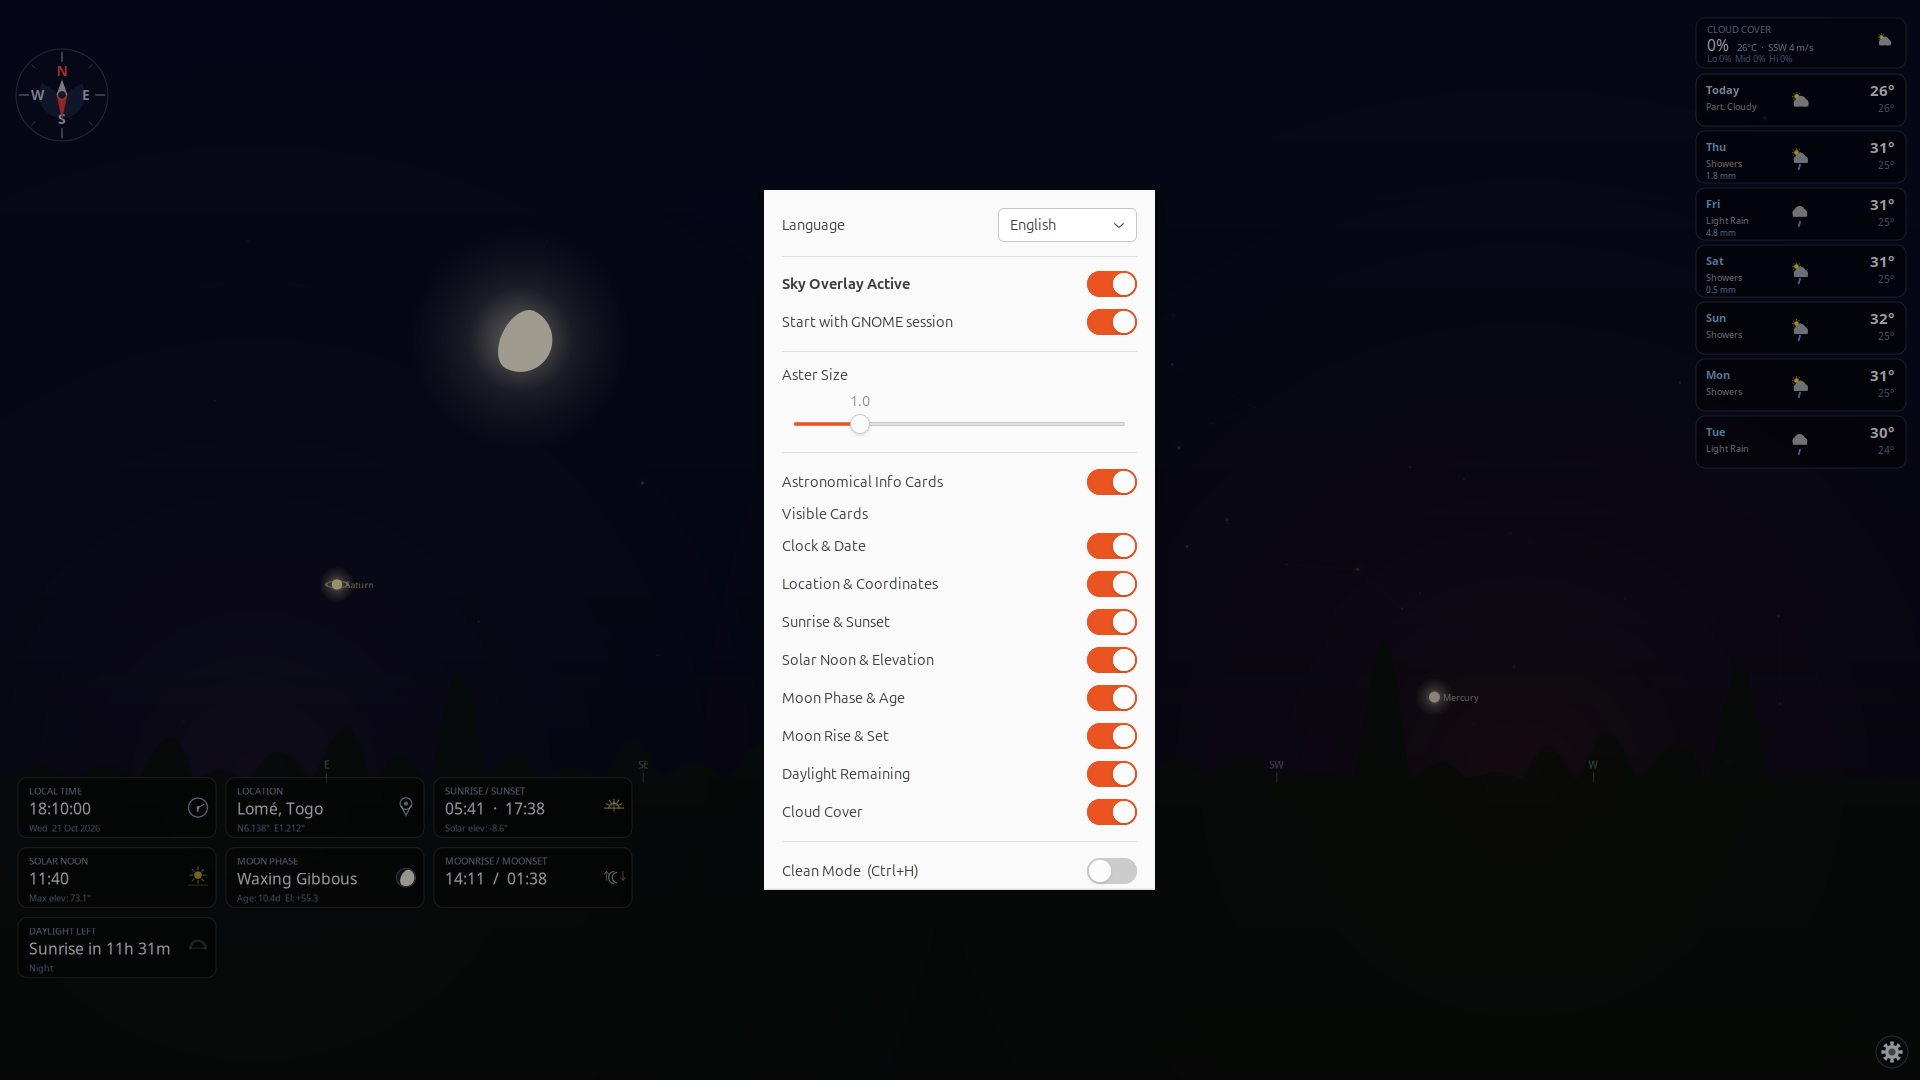
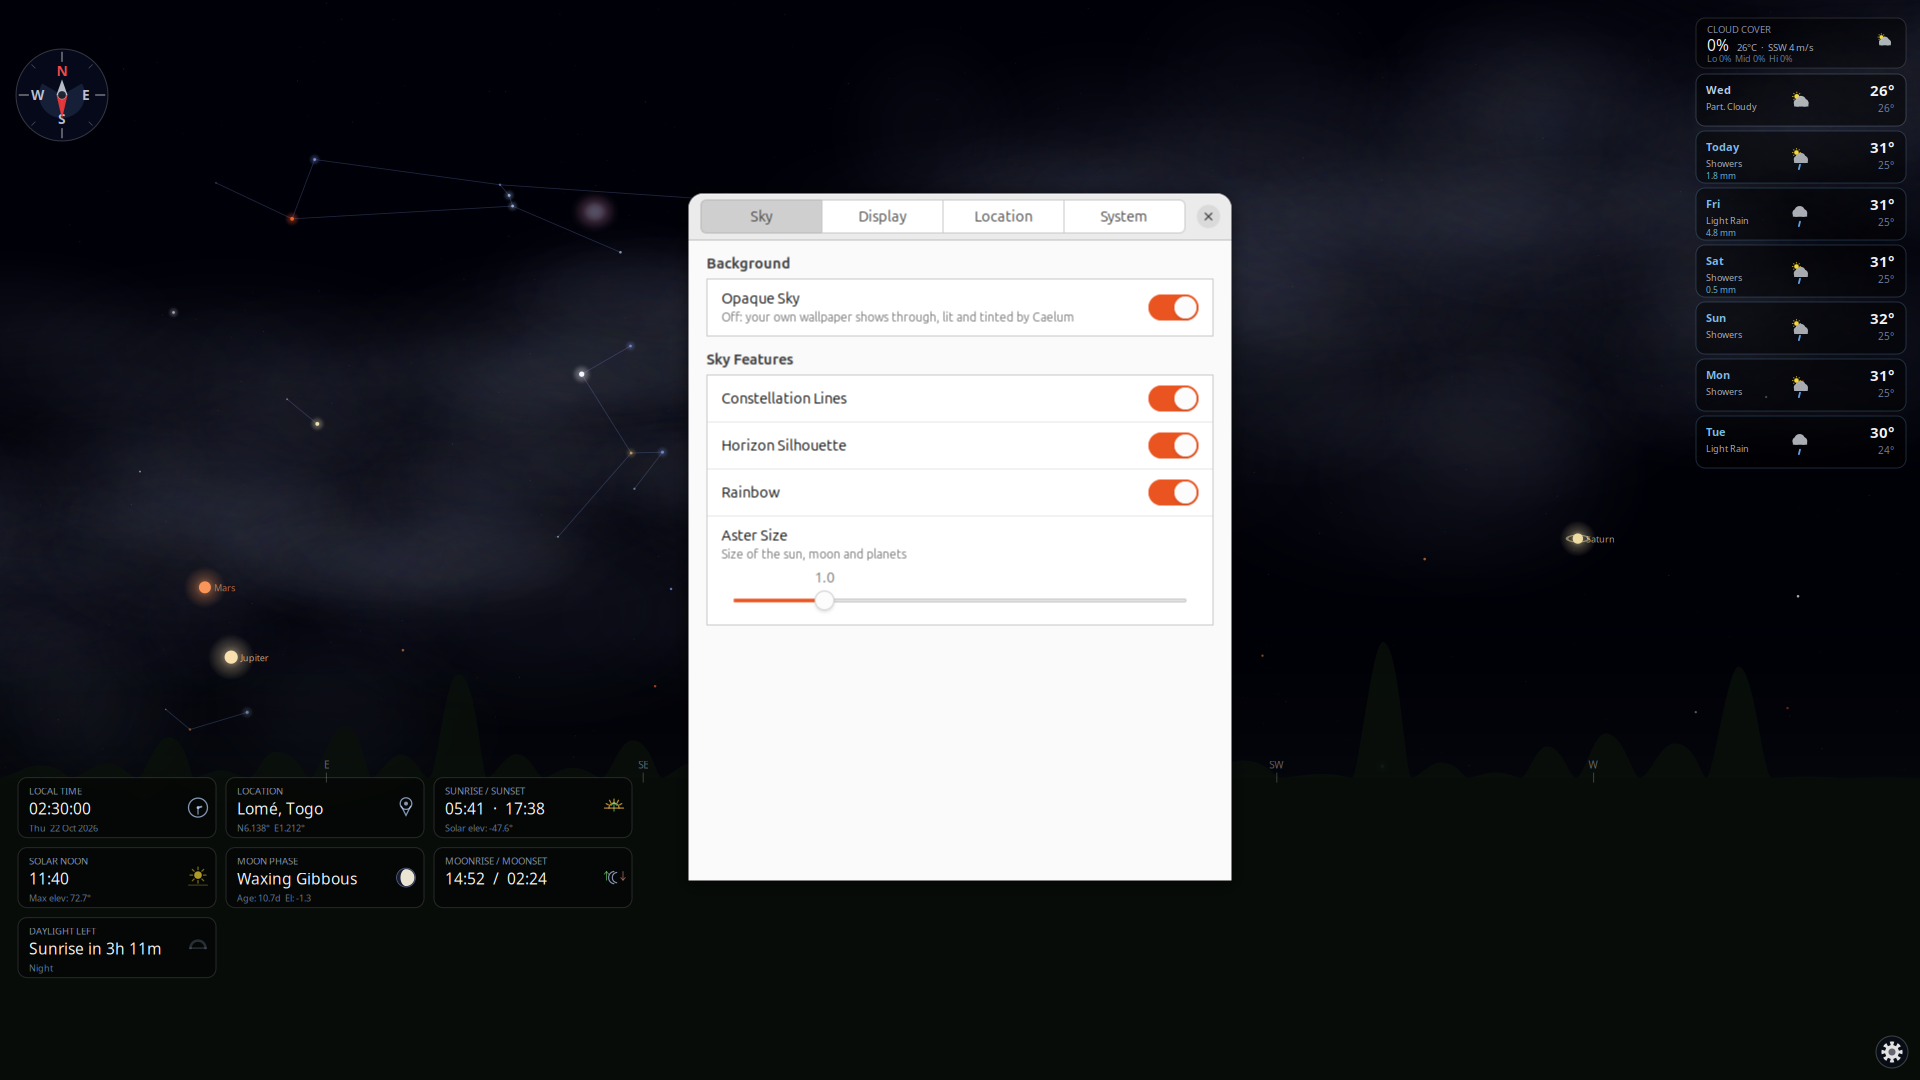
release 1.3.1: version bump, changelog, metainfo, new settings screenshot

diff --git a/caelum/__init__.py b/caelum/__init__.py
@@ -1,3 +1,3 @@
 """Caelum — live sky overlay: sun, moon, planets, stars and weather for your location."""
 
-__version__ = '1.3.0'
+__version__ = '1.3.1'

diff --git a/JOURNAL.md b/JOURNAL.md
@@ -1008,3 +1008,12 @@ thick low cloud: 80% cirrus alone left the sun at ~33% and greyed the sky with t
 - **Verified**: screenshots of all four tabs in English and French. Programmatic check: the Opaque Sky
   switch updates `cfg`, saves once and redraws; the tab is remembered across reopen. 26 tests pass,
   pyflakes clean. `data/screenshots/settings.png` is still the old dialog; update it at the next release.
+
+### Release 1.3.1 (2026-10-25)
+- The user asked to release every version in turn: 1.3.0 (snap promoted to stable, rev 4), then 1.3.1
+  (Settings redesign only), then 1.4.0 (landscapes).
+- 1.3.1 is built from branch `release-1.3.1` at `017cb4a` (the Settings commit). Master already had the
+  landscapes on top. The branch is merged back into master afterwards.
+- Version bump: `__init__.py`, `debian/changelog` 1.3.1-1, metainfo release notes, screenshots pinned
+  to `v1.3.1`. `settings.png` is now the new dialog (Sky tab, captured from this code) over
+  `night.png`, the same composition as before.
